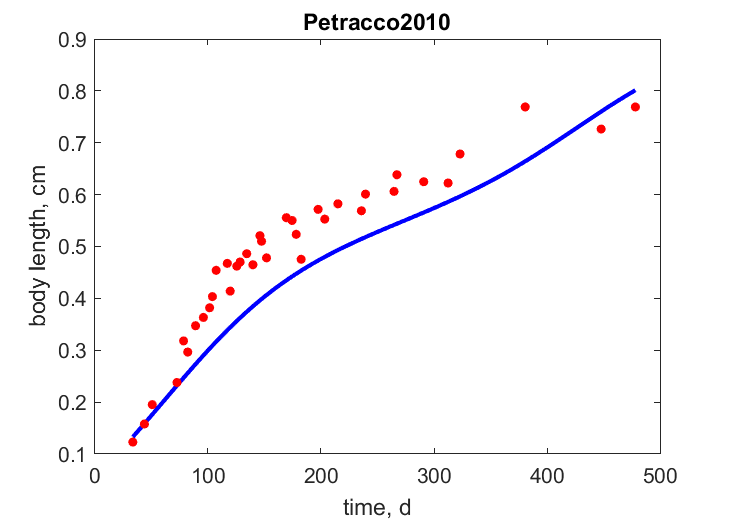
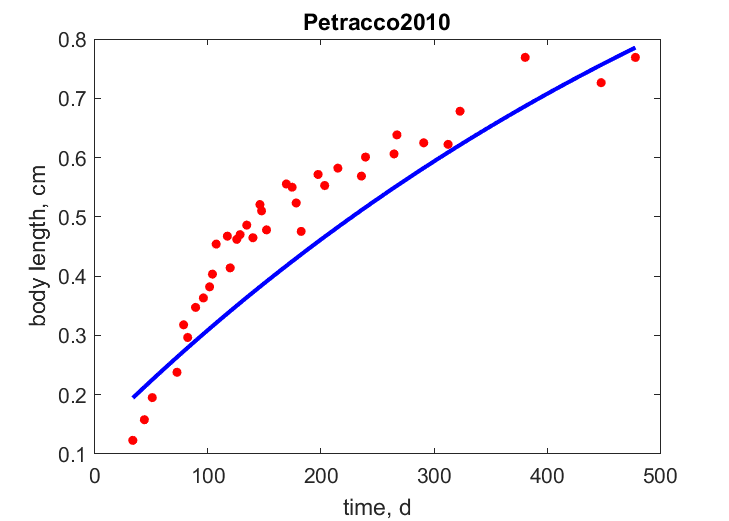
Revised changes 2
Removed ODE to predict tL
Resulted in slightly better fit

diff --git a/Excirolana_armata_res.html b/Excirolana_armata_res.html
@@ -44,7 +44,7 @@
   </div>
 
   <div class="par">
-  <h4>COMPLETE = 2.7; MRE =    0.198; SMSE =    0.188 </h4>
+  <h4>COMPLETE = 2.7; MRE =    0.197; SMSE =    0.187 </h4>
   </div>
 
   <p class="clear"></p>
@@ -53,24 +53,24 @@
   <h2>Data & predictions</h2>
   <TABLE id="prd">
     <TR  class="head"><TH>data</TH> <TH>prd</TH> <TH>RE</TH>  <TH>symbol</TH> <TH>units</TH> <TH>description</TH> </TR>
-    <TR><TD> 60</TD> <TD>43.58</TD> <TD>0.2737</TD> <TD>ab</TD> <TD>d</TD> <TD>age at birth</TD></TR>
-    <TR><TD>704.4</TD> <TD>704.5</TD> <TD>2.053e-05</TD> <TD>am</TD> <TD>d</TD> <TD>life span</TD></TR>
-    <TR><TD>0.12</TD> <TD>0.1325</TD> <TD>0.1045</TD> <TD>Lb</TD> <TD>cm</TD> <TD>total length at birth</TD></TR>
-    <TR><TD>0.39</TD> <TD>0.2682</TD> <TD>0.3123</TD> <TD>Lp</TD> <TD>cm</TD> <TD>total length at puberty</TD></TR>
-    <TR><TD>1.2</TD> <TD>1.193</TD> <TD>0.006223</TD> <TD>Li</TD> <TD>cm</TD> <TD>ultimate total length</TD></TR>
-    <TR><TD>0.0017</TD> <TD>0.00192</TD> <TD>0.1293</TD> <TD>Wwb</TD> <TD>g</TD> <TD>wet weight at birth</TD></TR>
-    <TR><TD>0.0137</TD> <TD>0.01591</TD> <TD>0.1615</TD> <TD>Wwp</TD> <TD>g</TD> <TD>wet weight at puberty</TD></TR>
-    <TR><TD>1.816</TD> <TD>1.398</TD> <TD>0.2298</TD> <TD>Wwi</TD> <TD>g</TD> <TD>ultimate dry weight</TD></TR>
-    <TR><TD>0.5342</TD> <TD>0.709</TD> <TD>0.327</TD> <TD>Ri</TD> <TD>#/d</TD> <TD>maximum reprod rate</TD></TR>
-    <TR><TD colspan="2">see figure</TD> <TD>0.1531</TD> <TD>tL</TD> <TD colspan="2">time, <font color="blue"><i>vs.</i></font> body length</TD>
-    <TR><TD colspan="2">see figure</TD> <TD>0.3178</TD> <TD>LN_br</TD> <TD colspan="2">body length, <font color="blue"><i>vs.</i></font> embryos</TD>
-    <TR><TD colspan="2">see figure</TD> <TD>0.3578</TD> <TD>LN_ur</TD> <TD colspan="2">body length, <font color="blue"><i>vs.</i></font> embryos</TD>
-    <TR class="psd"><TD>0.02</TD> <TD>0.005143</TD> <TD>0.7429</TD> <TD>psd.v</TD> <TD>cm/d</TD> <TD>energy conductance</TD></TR>
-    <TR class="psd"><TD>0.8</TD> <TD>0.6146</TD> <TD>0.2318</TD> <TD>psd.kap</TD> <TD>-</TD> <TD>allocation fraction to soma</TD></TR>
+    <TR><TD> 60</TD> <TD>43.88</TD> <TD>0.2687</TD> <TD>ab</TD> <TD>d</TD> <TD>age at birth</TD></TR>
+    <TR><TD>704.4</TD> <TD>704.4</TD> <TD>1.815e-05</TD> <TD>am</TD> <TD>d</TD> <TD>life span</TD></TR>
+    <TR><TD>0.12</TD> <TD>0.1319</TD> <TD>0.0993</TD> <TD>Lb</TD> <TD>cm</TD> <TD>total length at birth</TD></TR>
+    <TR><TD>0.39</TD> <TD>0.2675</TD> <TD>0.3141</TD> <TD>Lp</TD> <TD>cm</TD> <TD>total length at puberty</TD></TR>
+    <TR><TD>1.2</TD> <TD>1.191</TD> <TD>0.00759</TD> <TD>Li</TD> <TD>cm</TD> <TD>ultimate total length</TD></TR>
+    <TR><TD>0.0017</TD> <TD>0.00191</TD> <TD>0.1235</TD> <TD>Wwb</TD> <TD>g</TD> <TD>wet weight at birth</TD></TR>
+    <TR><TD>0.0137</TD> <TD>0.01593</TD> <TD>0.1626</TD> <TD>Wwp</TD> <TD>g</TD> <TD>wet weight at puberty</TD></TR>
+    <TR><TD>1.816</TD> <TD>1.405</TD> <TD>0.2261</TD> <TD>Wwi</TD> <TD>g</TD> <TD>ultimate dry weight</TD></TR>
+    <TR><TD>0.5342</TD> <TD>0.7061</TD> <TD>0.3217</TD> <TD>Ri</TD> <TD>#/d</TD> <TD>maximum reprod rate</TD></TR>
+    <TR><TD colspan="2">see figure</TD> <TD>0.1599</TD> <TD>tL_br</TD> <TD colspan="2">time, <font color="blue"><i>vs.</i></font> body length</TD>
+    <TR><TD colspan="2">see figure</TD> <TD>0.3183</TD> <TD>LN_br</TD> <TD colspan="2">body length, <font color="blue"><i>vs.</i></font> embryos</TD>
+    <TR><TD colspan="2">see figure</TD> <TD>0.3575</TD> <TD>LN_ur</TD> <TD colspan="2">body length, <font color="blue"><i>vs.</i></font> embryos</TD>
+    <TR class="psd"><TD>0.02</TD> <TD>0.005116</TD> <TD>0.7442</TD> <TD>psd.v</TD> <TD>cm/d</TD> <TD>energy conductance</TD></TR>
+    <TR class="psd"><TD>0.8</TD> <TD>0.6145</TD> <TD>0.2319</TD> <TD>psd.kap</TD> <TD>-</TD> <TD>allocation fraction to soma</TD></TR>
     <TR class="psd"><TD>0.95</TD> <TD>0.95</TD> <TD>  0</TD> <TD>psd.kap_R</TD> <TD>-</TD> <TD>reproduction efficiency</TD></TR>
-    <TR class="psd"><TD> 18</TD> <TD>37.01</TD> <TD>1.056</TD> <TD>psd.p_M</TD> <TD>J/d.cm^3</TD> <TD>vol-spec som maint</TD></TR>
+    <TR class="psd"><TD> 18</TD> <TD>36.29</TD> <TD>1.016</TD> <TD>psd.p_M</TD> <TD>J/d.cm^3</TD> <TD>vol-spec som maint</TD></TR>
     <TR class="psd"><TD>0.002</TD> <TD>0.002</TD> <TD>  0</TD> <TD>psd.k_J</TD> <TD>1/d</TD> <TD>maturity maint rate coefficient</TD></TR>
-    <TR class="psd"><TD>0.8</TD> <TD>0.8023</TD> <TD>0.002921</TD> <TD>psd.kap_G</TD> <TD>-</TD> <TD>growth efficiency</TD></TR>
+    <TR class="psd"><TD>0.8</TD> <TD>0.8023</TD> <TD>0.002898</TD> <TD>psd.kap_G</TD> <TD>-</TD> <TD>growth efficiency</TD></TR>
   </TABLE>
   </div>
 
@@ -80,25 +80,25 @@
     <TR class="head"><TH>symbol</TH> <TH>units</TH> <TH>value</TH>  <TH>free</TH> <TH>description</TH> </TR>
     <TR><TD>T_ref</TD> <TD>K</TD> <TD>293.1</TD> <TD>0</TD> <TD>Reference temperature</TD></TR>
     <TR><TD>T_A</TD> <TD>K</TD> <TD>8000</TD> <TD>0</TD> <TD>Arrhenius temperature</TD></TR>
-    <TR><TD>z</TD> <TD>-</TD> <TD>0.7544</TD> <TD>1</TD> <TD>zoom factor</TD></TR>
+    <TR><TD>z</TD> <TD>-</TD> <TD>0.7574</TD> <TD>1</TD> <TD>zoom factor</TD></TR>
     <TR><TD>F_m</TD> <TD>l/d.cm^2</TD> <TD>6.5</TD> <TD>0</TD> <TD>{F_m}, max spec searching rate</TD></TR>
     <TR><TD>kap_X</TD> <TD>-</TD> <TD>0.8</TD> <TD>0</TD> <TD>digestion efficiency of food to reserve</TD></TR>
     <TR><TD>kap_P</TD> <TD>-</TD> <TD>0.1</TD> <TD>0</TD> <TD>faecation efficiency of food to faeces</TD></TR>
-    <TR><TD>v</TD> <TD>cm/d</TD> <TD>0.005143</TD> <TD>1</TD> <TD>energy conductance</TD></TR>
-    <TR><TD>kap</TD> <TD>-</TD> <TD>0.6146</TD> <TD>1</TD> <TD>allocation fraction to soma</TD></TR>
+    <TR><TD>v</TD> <TD>cm/d</TD> <TD>0.005116</TD> <TD>1</TD> <TD>energy conductance</TD></TR>
+    <TR><TD>kap</TD> <TD>-</TD> <TD>0.6145</TD> <TD>1</TD> <TD>allocation fraction to soma</TD></TR>
     <TR><TD>kap_R</TD> <TD>-</TD> <TD>0.95</TD> <TD>0</TD> <TD>reproduction efficiency</TD></TR>
-    <TR><TD>p_M</TD> <TD>J/d.cm^3</TD> <TD>37.01</TD> <TD>1</TD> <TD>[p_M], vol-spec somatic maint</TD></TR>
+    <TR><TD>p_M</TD> <TD>J/d.cm^3</TD> <TD>36.29</TD> <TD>1</TD> <TD>[p_M], vol-spec somatic maint</TD></TR>
     <TR><TD>p_T</TD> <TD>J/d.cm^2</TD> <TD>  0</TD> <TD>0</TD> <TD>{p_T}, surf-spec somatic maint</TD></TR>
     <TR><TD>k_J</TD> <TD>1/d</TD> <TD>0.002</TD> <TD>0</TD> <TD>maturity maint rate coefficient</TD></TR>
     <TR><TD>E_G</TD> <TD>J/cm^3</TD> <TD>4433</TD> <TD>1</TD> <TD>[E_G], spec cost for structure</TD></TR>
-    <TR><TD>E_Hb</TD> <TD>J</TD> <TD>1.817</TD> <TD>1</TD> <TD>maturity at birth</TD></TR>
-    <TR><TD>E_Hp</TD> <TD>J</TD> <TD>17.88</TD> <TD>1</TD> <TD>maturity at puberty</TD></TR>
-    <TR><TD>h_a</TD> <TD>1/d^2</TD> <TD>7.82e-07</TD> <TD>1</TD> <TD>Weibull aging acceleration</TD></TR>
+    <TR><TD>E_Hb</TD> <TD>J</TD> <TD>1.818</TD> <TD>1</TD> <TD>maturity at birth</TD></TR>
+    <TR><TD>E_Hp</TD> <TD>J</TD> <TD>17.97</TD> <TD>1</TD> <TD>maturity at puberty</TD></TR>
+    <TR><TD>h_a</TD> <TD>1/d^2</TD> <TD>7.893e-07</TD> <TD>1</TD> <TD>Weibull aging acceleration</TD></TR>
     <TR><TD>s_G</TD> <TD>-</TD> <TD>0.0001</TD> <TD>0</TD> <TD>Gompertz stress coefficient</TD></TR>
-    <TR><TD>del_M</TD> <TD>-</TD> <TD>0.6326</TD> <TD>1</TD> <TD>shape coefficient</TD></TR>
+    <TR><TD>del_M</TD> <TD>-</TD> <TD>0.636</TD> <TD>1</TD> <TD>shape coefficient</TD></TR>
     <TR><TD>f</TD> <TD>-</TD> <TD>  1</TD> <TD>0</TD> <TD>scaled functional response</TD></TR>
     <TR><TD>f_br</TD> <TD>-</TD> <TD>1.2</TD> <TD>1</TD> <TD>scaled functional response for Brazil data</TD></TR>
-    <TR><TD>f_ur</TD> <TD>-</TD> <TD>0.9016</TD> <TD>1</TD> <TD>scaled functional response for Uruguay data</TD></TR>
+    <TR><TD>f_ur</TD> <TD>-</TD> <TD>0.9097</TD> <TD>1</TD> <TD>scaled functional response for Uruguay data</TD></TR>
   </TABLE>
   </div>
 

diff --git a/pars_init_Excirolana_armata.m b/pars_init_Excirolana_armata.m
@@ -7,27 +7,27 @@ par.T_ref = 293.15;   free.T_ref = 0;   units.T_ref = 'K';        label.T_ref = 
 
 %% core primary parameters 
 par.T_A = 8000;       free.T_A   = 0;   units.T_A = 'K';          label.T_A = 'Arrhenius temperature'; 
-par.z = 0.75436;      free.z     = 1;   units.z = '-';            label.z = 'zoom factor'; 
+par.z = 0.75736;      free.z     = 1;   units.z = '-';            label.z = 'zoom factor'; 
 par.F_m = 6.5;        free.F_m   = 0;   units.F_m = 'l/d.cm^2';   label.F_m = '{F_m}, max spec searching rate'; 
 par.kap_X = 0.8;      free.kap_X = 0;   units.kap_X = '-';        label.kap_X = 'digestion efficiency of food to reserve'; 
 par.kap_P = 0.1;      free.kap_P = 0;   units.kap_P = '-';        label.kap_P = 'faecation efficiency of food to faeces'; 
-par.v = 0.005143;     free.v     = 1;   units.v = 'cm/d';         label.v = 'energy conductance'; 
-par.kap = 0.61459;    free.kap   = 1;   units.kap = '-';          label.kap = 'allocation fraction to soma'; 
+par.v = 0.0051163;    free.v     = 1;   units.v = 'cm/d';         label.v = 'energy conductance'; 
+par.kap = 0.6145;     free.kap   = 1;   units.kap = '-';          label.kap = 'allocation fraction to soma'; 
 par.kap_R = 0.95;     free.kap_R = 0;   units.kap_R = '-';        label.kap_R = 'reproduction efficiency'; 
-par.p_M = 37.0105;    free.p_M   = 1;   units.p_M = 'J/d.cm^3';   label.p_M = '[p_M], vol-spec somatic maint'; 
+par.p_M = 36.2917;    free.p_M   = 1;   units.p_M = 'J/d.cm^3';   label.p_M = '[p_M], vol-spec somatic maint'; 
 par.p_T = 0;          free.p_T   = 0;   units.p_T = 'J/d.cm^2';   label.p_T = '{p_T}, surf-spec somatic maint'; 
 par.k_J = 0.002;      free.k_J   = 0;   units.k_J = '1/d';        label.k_J = 'maturity maint rate coefficient'; 
-par.E_G = 4432.6598;  free.E_G   = 1;   units.E_G = 'J/cm^3';     label.E_G = '[E_G], spec cost for structure'; 
-par.E_Hb = 1.817e+00; free.E_Hb  = 1;   units.E_Hb = 'J';         label.E_Hb = 'maturity at birth'; 
-par.E_Hp = 1.788e+01; free.E_Hp  = 1;   units.E_Hp = 'J';         label.E_Hp = 'maturity at puberty'; 
-par.h_a = 7.820e-07;  free.h_a   = 1;   units.h_a = '1/d^2';      label.h_a = 'Weibull aging acceleration'; 
+par.E_G = 4432.7605;  free.E_G   = 1;   units.E_G = 'J/cm^3';     label.E_G = '[E_G], spec cost for structure'; 
+par.E_Hb = 1.818e+00; free.E_Hb  = 1;   units.E_Hb = 'J';         label.E_Hb = 'maturity at birth'; 
+par.E_Hp = 1.797e+01; free.E_Hp  = 1;   units.E_Hp = 'J';         label.E_Hp = 'maturity at puberty'; 
+par.h_a = 7.893e-07;  free.h_a   = 1;   units.h_a = '1/d^2';      label.h_a = 'Weibull aging acceleration'; 
 par.s_G = 0.0001;     free.s_G   = 0;   units.s_G = '-';          label.s_G = 'Gompertz stress coefficient'; 
 
 %% other parameters 
-par.del_M = 0.63257;  free.del_M = 1;   units.del_M = '-';        label.del_M = 'shape coefficient'; 
+par.del_M = 0.63596;  free.del_M = 1;   units.del_M = '-';        label.del_M = 'shape coefficient'; 
 par.f = 1;            free.f     = 0;   units.f = '-';            label.f = 'scaled functional response'; 
 par.f_br = 1.2;       free.f_br  = 1;   units.f_br = '-';         label.f_br = 'scaled functional response for Brazil data'; 
-par.f_ur = 0.90162;   free.f_ur  = 1;   units.f_ur = '-';         label.f_ur = 'scaled functional response for Uruguay data'; 
+par.f_ur = 0.90973;   free.f_ur  = 1;   units.f_ur = '-';         label.f_ur = 'scaled functional response for Uruguay data'; 
 
 %% set chemical parameters from Kooy2010 
 [par, units, label, free] = addchem(par, units, label, free, metaData.phylum, metaData.class); 

diff --git a/predict_Excirolana_armata.m b/predict_Excirolana_armata.m
@@ -65,36 +65,21 @@ function [prdData, info] = predict_Excirolana_armata(par, data, auxData)
   prdData.Ri = RT_i;
   
   %% uni-variate data
-  % time-length
-   [tau_p, tau_b, l_p, l_b] = get_tp(pars_tp, f_br);  % use scaled functional response for Brazil
-  r_B = k_M/ 3/ (1 + f_br/ g);  L_i = L_m * f_br; L_b = L_m * l_b;      
-  [t L] = ode45(@get_L, tL_br(:,1), L_b, [], r_B, L_i, T_ref, T_A, temp.tL_br); % cm, structural length 
-  ELw = L/ del_M;                       % g, total length
-    
-  % L-N data
+  % time-length  
+  rT_B = TC_br * k_M/ 3/ (1 + f_br/ g); L_i = f_br * L_m; L_b = L_m * get_lb([g; k; v_Hb], f_br);
+  ELw_br = (L_i - (L_i - L_b) * exp(- rT_B * tL_br(:,1)))/ del_M;
+
+  % L-N
    % Brazil
-  pars_R = [kap; kap_R; g; k_J; k_M; L_T; v; U_Hb; U_Hp]; % compose parameter vector at T
-  [L N] = ode45(@get_N, LN_br(:,1), L_p, [], 
   EN_br = TC_br * reprod_rate (LN_br(:,1) * del_M, f_br, pars_R) * 365/ 5;  % #/d, clutch size for spawning five times per yr (every two months)
   
-    % Uruguai
+   % Uruguai
   EN_ur = TC_ur * reprod_rate (LN_ur(:,1) * del_M, f_ur, pars_R) * 365/ 5;  % #/d, clutch size for spawning five times per yr (every two months)
   
 
-  %% pack to output
-  prdData.tL_br = ELw;  
+  %% pack to output  prdData.tL_br = ELw;  
+  prdData.tL_br = ELw_br;
   prdData.LN_br = EN_br;
   prdData.LN_ur = EN_ur;
   
-end
-
- 
-function dL = get_L(t, L, r_B, L_i, T_ref, T_A, T_tL)
-TC = tempcorr(T_tL+4*sin(2*pi*(t+10)/365), T_ref, T_A); 
-  dL = TC * r_B * (L_i - L);
-end
-
-function dN = get_N(L, N, r_B, L_i, T_ref, T_A, T_LN)
-TC = tempcorr(T_LN+4*sin(2*pi*(t+10)/365), T_ref, T_A);
-  EN_br = TC_br * reprod_rate (LN_br(:,1) * del_M, f_br, pars_R) * 365/ 5; dL = TC * r_B * (L_i - L);
 end

diff --git a/run_Excirolana_armata.m b/run_Excirolana_armata.m
@@ -5,7 +5,7 @@ pets = {'Excirolana_armata'};
 check_my_pet(pets);
 
 estim_options('default'); 
-estim_options('max_step_number', 5e3); 
+estim_options('max_step_number', 5e2); 
 estim_options('max_fun_evals', 5e3); 
 
 estim_options('pars_init_method', 2); 
